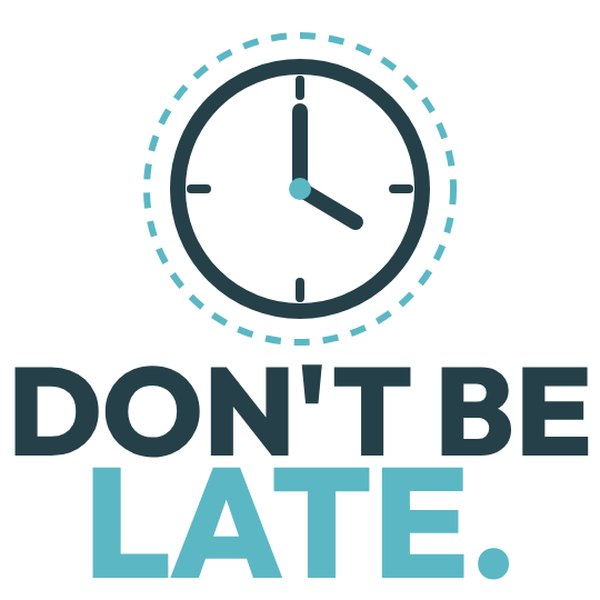
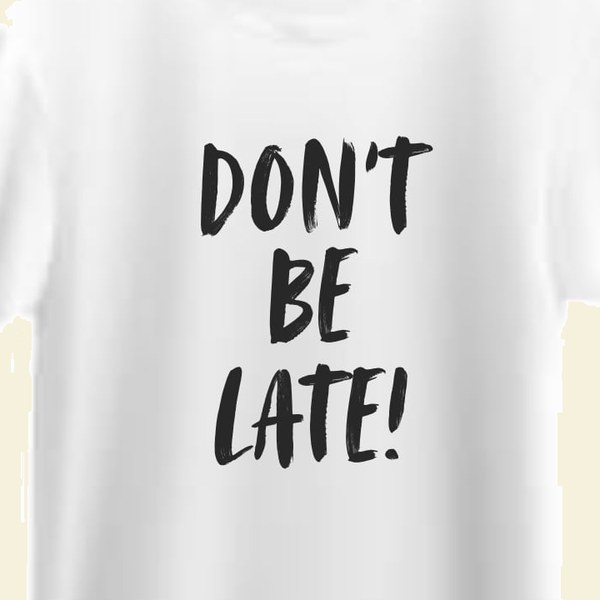
Restore latest updates

diff --git a/everyday-comfort-tee.html b/everyday-comfort-tee.html
@@ -24,7 +24,6 @@
           <ul class="navbar-nav">
           <li class="nav-item"><a class="nav-link" href="index.html">Home</a></li>
           <li class="nav-item"><a class="nav-link active" href="index.html#shop">Shop</a></li>
-          <li class="nav-item"><a class="nav-link" href="index.html#about">About</a></li>
           <li class="nav-item"><a class="nav-link" href="contact.html">Contact</a></li>
           </ul>
         </div>
@@ -33,8 +32,12 @@
   </header>
 
   <main id="main">
-    <div class="container pt-4">
+    <div class="container pt-4 d-flex flex-wrap justify-content-between align-items-center gap-2">
       <a class="back-link" href="index.html#shop"><svg width="24" height="24" viewBox="0 0 24 24" fill="none" stroke="#264049" stroke-width="2" stroke-linecap="round" stroke-linejoin="round" aria-hidden="true" focusable="false"><path d="M20 12H4M10 6l-6 6 6 6"/></svg> Back to Shop</a>
+      <nav class="tee-pager" aria-label="Browse the tees">
+        <a class="pager-link" href="dont-be-late-tee.html" rel="prev"><span aria-hidden="true">&larr;</span> Previous<span class="visually-hidden">: Don't Be Late Tee</span></a>
+        <a class="pager-link" href="do-good-work-tee.html" rel="next">Next<span class="visually-hidden">: Do Good Work Tee</span> <span aria-hidden="true">&rarr;</span></a>
+      </nav>
     </div>
 
     <section class="section pt-4" aria-labelledby="product-title">
@@ -42,13 +45,13 @@
         <div class="row g-5">
           <div class="col-lg-6">
             <div class="img-panel main-photo mb-3">
-              <img id="main-photo" src="images/everyday-comfort-tee.jpg" alt="Gray Everyday Comfort Tee with the words Everyday Comfort and a teal wave printed on the front" width="900" height="975">
+              <img id="main-photo" src="images/everyday-comfort-tee.jpg" alt="Gray Everyday Comfort Tee with the words Everyday Comfort in black graffiti-style lettering on the front" width="900" height="975">
             </div>
             <div class="d-flex gap-3">
-              <button type="button" class="thumb" aria-pressed="true" aria-label="Show front view" data-src="images/everyday-comfort-tee.jpg" data-alt="Gray Everyday Comfort Tee with the words Everyday Comfort and a teal wave printed on the front">
+              <button type="button" class="thumb" aria-pressed="true" aria-label="Show front view" data-src="images/everyday-comfort-tee.jpg" data-alt="Gray Everyday Comfort Tee with the words Everyday Comfort in black graffiti-style lettering on the front">
                 <img src="images/everyday-comfort-tee.jpg" alt="" width="90" height="90">
               </button>
-              <button type="button" class="thumb" aria-pressed="false" aria-label="Show close-up of the print" data-src="images/everyday-comfort-tee-closeup.jpg" data-alt="Close-up of the Everyday Comfort print with the line Soft. Simple. Yours.">
+              <button type="button" class="thumb" aria-pressed="false" aria-label="Show close-up of the print" data-src="images/everyday-comfort-tee-closeup.jpg" data-alt="Close-up of the Everyday Comfort print: black graffiti-style lettering above the words Everyday Threads">
                 <img src="images/everyday-comfort-tee-closeup.jpg" alt="" width="90" height="90">
               </button>
               <div class="thumb-soon">More photos soon</div>
@@ -101,7 +104,7 @@
       </div>
     </section>
 
-    <section class="section bg-ivory" aria-label="More about this tee">
+    <section class="section bg-pale-teal" aria-label="More about this tee">
       <div class="container">
         <div class="row g-5">
           <div class="col-lg-6">
@@ -137,7 +140,6 @@
             <li><a href="index.html#about">About</a></li>
             <li><a href="contact.html">Contact</a></li>
             <li><a href="privacy.html">Privacy</a></li>
-            <li><a href="terms.html">Terms</a></li>
           </ul>
         </nav>
       </div>

diff --git a/do-good-work-tee.html b/do-good-work-tee.html
@@ -24,7 +24,6 @@
           <ul class="navbar-nav">
           <li class="nav-item"><a class="nav-link" href="index.html">Home</a></li>
           <li class="nav-item"><a class="nav-link active" href="index.html#shop">Shop</a></li>
-          <li class="nav-item"><a class="nav-link" href="index.html#about">About</a></li>
           <li class="nav-item"><a class="nav-link" href="contact.html">Contact</a></li>
           </ul>
         </div>
@@ -33,8 +32,12 @@
   </header>
 
   <main id="main">
-    <div class="container pt-4">
+    <div class="container pt-4 d-flex flex-wrap justify-content-between align-items-center gap-2">
       <a class="back-link" href="index.html#shop"><svg width="24" height="24" viewBox="0 0 24 24" fill="none" stroke="#264049" stroke-width="2" stroke-linecap="round" stroke-linejoin="round" aria-hidden="true" focusable="false"><path d="M20 12H4M10 6l-6 6 6 6"/></svg> Back to Shop</a>
+      <nav class="tee-pager" aria-label="Browse the tees">
+        <a class="pager-link" href="everyday-comfort-tee.html" rel="prev"><span aria-hidden="true">&larr;</span> Previous<span class="visually-hidden">: Everyday Comfort Tee</span></a>
+        <a class="pager-link" href="dont-be-late-tee.html" rel="next">Next<span class="visually-hidden">: Don't Be Late Tee</span> <span aria-hidden="true">&rarr;</span></a>
+      </nav>
     </div>
 
     <section class="section pt-4" aria-labelledby="product-title">
@@ -42,13 +45,13 @@
         <div class="row g-5">
           <div class="col-lg-6">
             <div class="img-panel main-photo mb-3">
-              <img id="main-photo" src="images/do-good-work-tee.jpg" alt="Black Do Good Work Tee with a lavender check mark and the words Do good work printed on the front" width="900" height="975">
+              <img id="main-photo" src="images/do-good-work-tee.jpg" alt="Black Do Good Work Tee with the words Do good work in white capitals beside a thin white frame" width="900" height="975">
             </div>
             <div class="d-flex gap-3">
-              <button type="button" class="thumb" aria-pressed="true" aria-label="Show front view" data-src="images/do-good-work-tee.jpg" data-alt="Black Do Good Work Tee with a lavender check mark and the words Do good work printed on the front">
+              <button type="button" class="thumb" aria-pressed="true" aria-label="Show front view" data-src="images/do-good-work-tee.jpg" data-alt="Black Do Good Work Tee with the words Do good work in white capitals beside a thin white frame">
                 <img src="images/do-good-work-tee.jpg" alt="" width="90" height="90">
               </button>
-              <button type="button" class="thumb" aria-pressed="false" aria-label="Show close-up of the print" data-src="images/do-good-work-tee-closeup.jpg" data-alt="Close-up of the Do Good Work print: a lavender check mark above the words Do good work">
+              <button type="button" class="thumb" aria-pressed="false" aria-label="Show close-up of the print" data-src="images/do-good-work-tee-closeup.jpg" data-alt="Close-up of the Do Good Work print: the words Do good work in white capitals inside a thin white frame">
                 <img src="images/do-good-work-tee-closeup.jpg" alt="" width="90" height="90">
               </button>
               <div class="thumb-soon">More photos soon</div>
@@ -101,7 +104,7 @@
       </div>
     </section>
 
-    <section class="section bg-ivory" aria-label="More about this tee">
+    <section class="section bg-pale-teal" aria-label="More about this tee">
       <div class="container">
         <div class="row g-5">
           <div class="col-lg-6">
@@ -137,7 +140,6 @@
             <li><a href="index.html#about">About</a></li>
             <li><a href="contact.html">Contact</a></li>
             <li><a href="privacy.html">Privacy</a></li>
-            <li><a href="terms.html">Terms</a></li>
           </ul>
         </nav>
       </div>

diff --git a/dont-be-late-tee.html b/dont-be-late-tee.html
@@ -24,7 +24,6 @@
           <ul class="navbar-nav">
           <li class="nav-item"><a class="nav-link" href="index.html">Home</a></li>
           <li class="nav-item"><a class="nav-link active" href="index.html#shop">Shop</a></li>
-          <li class="nav-item"><a class="nav-link" href="index.html#about">About</a></li>
           <li class="nav-item"><a class="nav-link" href="contact.html">Contact</a></li>
           </ul>
         </div>
@@ -33,8 +32,12 @@
   </header>
 
   <main id="main">
-    <div class="container pt-4">
+    <div class="container pt-4 d-flex flex-wrap justify-content-between align-items-center gap-2">
       <a class="back-link" href="index.html#shop"><svg width="24" height="24" viewBox="0 0 24 24" fill="none" stroke="#264049" stroke-width="2" stroke-linecap="round" stroke-linejoin="round" aria-hidden="true" focusable="false"><path d="M20 12H4M10 6l-6 6 6 6"/></svg> Back to Shop</a>
+      <nav class="tee-pager" aria-label="Browse the tees">
+        <a class="pager-link" href="do-good-work-tee.html" rel="prev"><span aria-hidden="true">&larr;</span> Previous<span class="visually-hidden">: Do Good Work Tee</span></a>
+        <a class="pager-link" href="everyday-comfort-tee.html" rel="next">Next<span class="visually-hidden">: Everyday Comfort Tee</span> <span aria-hidden="true">&rarr;</span></a>
+      </nav>
     </div>
 
     <section class="section pt-4" aria-labelledby="product-title">
@@ -42,13 +45,13 @@
         <div class="row g-5">
           <div class="col-lg-6">
             <div class="img-panel main-photo mb-3">
-              <img id="main-photo" src="images/dont-be-late-tee.jpg" alt="White Don't Be Late Tee with a clock and the words Don't be late printed on the front" width="900" height="975">
+              <img id="main-photo" src="images/dont-be-late-tee.jpg" alt="White Don't Be Late Tee with the words Don't be late in black brush lettering on the front" width="900" height="975">
             </div>
             <div class="d-flex gap-3">
-              <button type="button" class="thumb" aria-pressed="true" aria-label="Show front view" data-src="images/dont-be-late-tee.jpg" data-alt="White Don't Be Late Tee with a clock and the words Don't be late printed on the front">
+              <button type="button" class="thumb" aria-pressed="true" aria-label="Show front view" data-src="images/dont-be-late-tee.jpg" data-alt="White Don't Be Late Tee with the words Don't be late in black brush lettering on the front">
                 <img src="images/dont-be-late-tee.jpg" alt="" width="90" height="90">
               </button>
-              <button type="button" class="thumb" aria-pressed="false" aria-label="Show close-up of the print" data-src="images/dont-be-late-tee-closeup.jpg" data-alt="Close-up of the Don't Be Late print: a clock above the words Don't be late">
+              <button type="button" class="thumb" aria-pressed="false" aria-label="Show close-up of the print" data-src="images/dont-be-late-tee-closeup.jpg" data-alt="Close-up of the Don't Be Late print: the words Don't be late in black brush lettering">
                 <img src="images/dont-be-late-tee-closeup.jpg" alt="" width="90" height="90">
               </button>
               <div class="thumb-soon">More photos soon</div>
@@ -101,7 +104,7 @@
       </div>
     </section>
 
-    <section class="section bg-ivory" aria-label="More about this tee">
+    <section class="section bg-pale-teal" aria-label="More about this tee">
       <div class="container">
         <div class="row g-5">
           <div class="col-lg-6">
@@ -137,7 +140,6 @@
             <li><a href="index.html#about">About</a></li>
             <li><a href="contact.html">Contact</a></li>
             <li><a href="privacy.html">Privacy</a></li>
-            <li><a href="terms.html">Terms</a></li>
           </ul>
         </nav>
       </div>

diff --git a/index.html b/index.html
@@ -24,7 +24,6 @@
           <ul class="navbar-nav">
           <li class="nav-item"><a class="nav-link active" aria-current="page" href="index.html">Home</a></li>
           <li class="nav-item"><a class="nav-link" href="index.html#shop">Shop</a></li>
-          <li class="nav-item"><a class="nav-link" href="index.html#about">About</a></li>
           <li class="nav-item"><a class="nav-link" href="contact.html">Contact</a></li>
           </ul>
         </div>
@@ -43,9 +42,9 @@
           </div>
           <div class="col-lg-6">
             <div class="hero-panel d-flex align-items-center justify-content-center">
-              <img src="images/dont-be-late-tee.jpg" alt="Don't Be Late Tee: white tee with a clock and the words Don't be late" width="900" height="975">
+              <img src="images/dont-be-late-tee.jpg" alt="Don't Be Late Tee: white tee with the words Don't be late in brush lettering" width="900" height="975">
               <img src="images/everyday-comfort-tee.jpg" alt="Everyday Comfort Tee: gray tee with the words Everyday Comfort" width="900" height="975">
-              <img src="images/do-good-work-tee.jpg" alt="Do Good Work Tee: black tee with a check mark and the words Do good work" width="900" height="975">
+              <img src="images/do-good-work-tee.jpg" alt="Do Good Work Tee: black tee with the words Do good work in white capitals" width="900" height="975">
             </div>
           </div>
         </div>
@@ -59,7 +58,7 @@
           <div class="col-md-6 col-lg-4">
             <article class="product-card d-flex flex-column gap-2">
               <div class="img-panel mb-2">
-                <img src="images/dont-be-late-tee.jpg" alt="White Don't Be Late Tee with a clock and the words Don't be late printed on the front" width="900" height="975" loading="lazy">
+                <img src="images/dont-be-late-tee.jpg" alt="White Don't Be Late Tee with the words Don't be late in black brush lettering on the front" width="900" height="975" loading="lazy">
               </div>
               <h3 class="mb-0">Don't Be Late Tee</h3>
               <p class="price mb-0">&#8369;499</p>
@@ -70,7 +69,7 @@
           <div class="col-md-6 col-lg-4">
             <article class="product-card d-flex flex-column gap-2">
               <div class="img-panel mb-2">
-                <img src="images/everyday-comfort-tee.jpg" alt="Gray Everyday Comfort Tee with the words Everyday Comfort and a teal wave printed on the front" width="900" height="975" loading="lazy">
+                <img src="images/everyday-comfort-tee.jpg" alt="Gray Everyday Comfort Tee with the words Everyday Comfort in black graffiti-style lettering on the front" width="900" height="975" loading="lazy">
               </div>
               <h3 class="mb-0">Everyday Comfort Tee</h3>
               <p class="price mb-0">&#8369;499</p>
@@ -81,7 +80,7 @@
           <div class="col-md-6 col-lg-4">
             <article class="product-card d-flex flex-column gap-2">
               <div class="img-panel mb-2">
-                <img src="images/do-good-work-tee.jpg" alt="Black Do Good Work Tee with a lavender check mark and the words Do good work printed on the front" width="900" height="975" loading="lazy">
+                <img src="images/do-good-work-tee.jpg" alt="Black Do Good Work Tee with the words Do good work in white capitals beside a thin white frame" width="900" height="975" loading="lazy">
               </div>
               <h3 class="mb-0">Do Good Work Tee</h3>
               <p class="price mb-0">&#8369;499</p>
@@ -120,7 +119,6 @@
             <li><a href="index.html#about">About</a></li>
             <li><a href="contact.html">Contact</a></li>
             <li><a href="privacy.html">Privacy</a></li>
-            <li><a href="terms.html">Terms</a></li>
           </ul>
         </nav>
       </div>

diff --git a/privacy.html b/privacy.html
@@ -24,7 +24,6 @@
           <ul class="navbar-nav">
           <li class="nav-item"><a class="nav-link" href="index.html">Home</a></li>
           <li class="nav-item"><a class="nav-link" href="index.html#shop">Shop</a></li>
-          <li class="nav-item"><a class="nav-link" href="index.html#about">About</a></li>
           <li class="nav-item"><a class="nav-link" href="contact.html">Contact</a></li>
           </ul>
         </div>
@@ -35,20 +34,10 @@
   <main id="main">
     <section class="section" aria-labelledby="page-title">
       <div class="container">
-        <h1 id="page-title" class="mb-1">Privacy Policy</h1>
-        <p class="text-secondary mb-5">Last updated: <time datetime="2026-11-01">November 1, 2026</time></p>
-        <div class="row g-5">
-          <nav class="col-lg-3 policy-toc" aria-label="On this page">
-            <ul class="list-unstyled mb-0">
-              <li><a href="#collect">1. What we collect</a></li>
-              <li><a href="#use">2. How we use it</a></li>
-              <li><a href="#orders">3. How orders reach us</a></li>
-              <li><a href="#safe">4. Keeping your information safe</a></li>
-              <li><a href="#choices">5. Your choices</a></li>
-              <li><a href="#contact">6. Contact us</a></li>
-            </ul>
-          </nav>
-          <div class="col-lg-9 policy-body">
+        <div class="policy-body mx-auto">
+          <h1 id="page-title" class="mb-1">Privacy Policy</h1>
+          <p class="text-secondary mb-5">Last updated: <time datetime="2026-11-01">November 1, 2026</time></p>
+          <div>
             <section id="collect" class="mb-4" aria-labelledby="collect-title">
               <h2 id="collect-title" class="h3">1. What we collect</h2>
               <p>When you order, we collect your name, delivery address, email, and contact number. We only ask for what we need to deliver your shirt.</p>
@@ -73,7 +62,6 @@
               <h2 id="contact-title" class="h3">6. Contact us</h2>
               <p>Questions about privacy? Email <a href="mailto:hello@examplewebsite142.com">hello@examplewebsite142.com</a>.</p>
             </section>
-            <a class="btn btn-et-outline mt-2" href="terms.html">Read our Terms</a>
           </div>
         </div>
       </div>
@@ -91,7 +79,6 @@
             <li><a href="index.html#about">About</a></li>
             <li><a href="contact.html">Contact</a></li>
             <li><a href="privacy.html">Privacy</a></li>
-            <li><a href="terms.html">Terms</a></li>
           </ul>
         </nav>
       </div>

diff --git a/css/style.css b/css/style.css
@@ -97,21 +97,27 @@ textarea:focus-visible,
 .site-header {
   background: #fff;
   border-bottom: 1px solid var(--et-border);
+  position: sticky;
+  top: 0;
+  z-index: 1030;
 }
-.site-header .navbar { min-height: 80px; }
+.site-header .navbar { min-height: 56px; padding-top: .25rem; padding-bottom: .25rem; }
+.site-header .logo { font-size: 1rem; }
 .site-header .nav-link {
   color: var(--et-graphite);
   font-weight: 500;
-  padding: .75rem 1rem;
+  padding: .5rem .75rem;
   border-bottom: 3px solid transparent;
 }
+/* Keep anchor targets from hiding under the fixed header */
+html { scroll-padding-top: 72px; }
 .site-header .nav-link:hover { color: var(--et-graphite); border-bottom-color: var(--et-border); }
 .site-header .nav-link.active,
 .site-header .nav-link[aria-current="page"] {
   color: var(--et-graphite);
   border-bottom-color: var(--et-teal);
 }
-.navbar-toggler { border: 2px solid var(--et-graphite); padding: .5rem .75rem; }
+.navbar-toggler { border: 2px solid var(--et-graphite); padding: .375rem .625rem; }
 
 /* ---------- Buttons ---------- */
 .btn-et {
@@ -394,3 +400,13 @@ textarea:focus-visible,
 }
 .site-footer .copy { color: var(--et-ivory); }
 .footer-nav { gap: .25rem 2rem; }
+
+/* Previous / Next on product pages */
+.tee-pager { display: flex; gap: .75rem; }
+.pager-link {
+  display: inline-flex; align-items: center; gap: .5rem;
+  min-height: 44px; padding: .5rem 1rem;
+  border: 2px solid var(--et-graphite); border-radius: 8px;
+  font-weight: 600; text-decoration: none; color: var(--et-graphite);
+}
+.pager-link:hover { background: var(--et-graphite); color: #fff; }

diff --git a/js/main.js b/js/main.js
@@ -144,3 +144,18 @@ if (mainPhoto) {
     });
   });
 }
+
+/* Home page: highlight "Shop" in the header while the tees section is on screen */
+(function () {
+  var shop = document.getElementById('shop');
+  var links = document.querySelectorAll('.site-header .nav-link');
+  if (!shop || !links.length || !('IntersectionObserver' in window)) return;
+  var home = links[0], shopLink = links[1];
+  function set(on) {
+    var a = on ? shopLink : home, b = on ? home : shopLink;
+    a.classList.add('active'); a.setAttribute('aria-current', 'page');
+    b.classList.remove('active'); b.removeAttribute('aria-current');
+  }
+  new IntersectionObserver(function (e) { set(e[0].isIntersecting); },
+    { rootMargin: '-45% 0px -45% 0px' }).observe(shop);
+})();

diff --git a/contact.html b/contact.html
@@ -24,7 +24,6 @@
           <ul class="navbar-nav">
           <li class="nav-item"><a class="nav-link" href="index.html">Home</a></li>
           <li class="nav-item"><a class="nav-link" href="index.html#shop">Shop</a></li>
-          <li class="nav-item"><a class="nav-link" href="index.html#about">About</a></li>
           <li class="nav-item"><a class="nav-link active" aria-current="page" href="contact.html">Contact</a></li>
           </ul>
         </div>
@@ -140,7 +139,6 @@
             <li><a href="index.html#about">About</a></li>
             <li><a href="contact.html">Contact</a></li>
             <li><a href="privacy.html">Privacy</a></li>
-            <li><a href="terms.html">Terms</a></li>
           </ul>
         </nav>
       </div>
